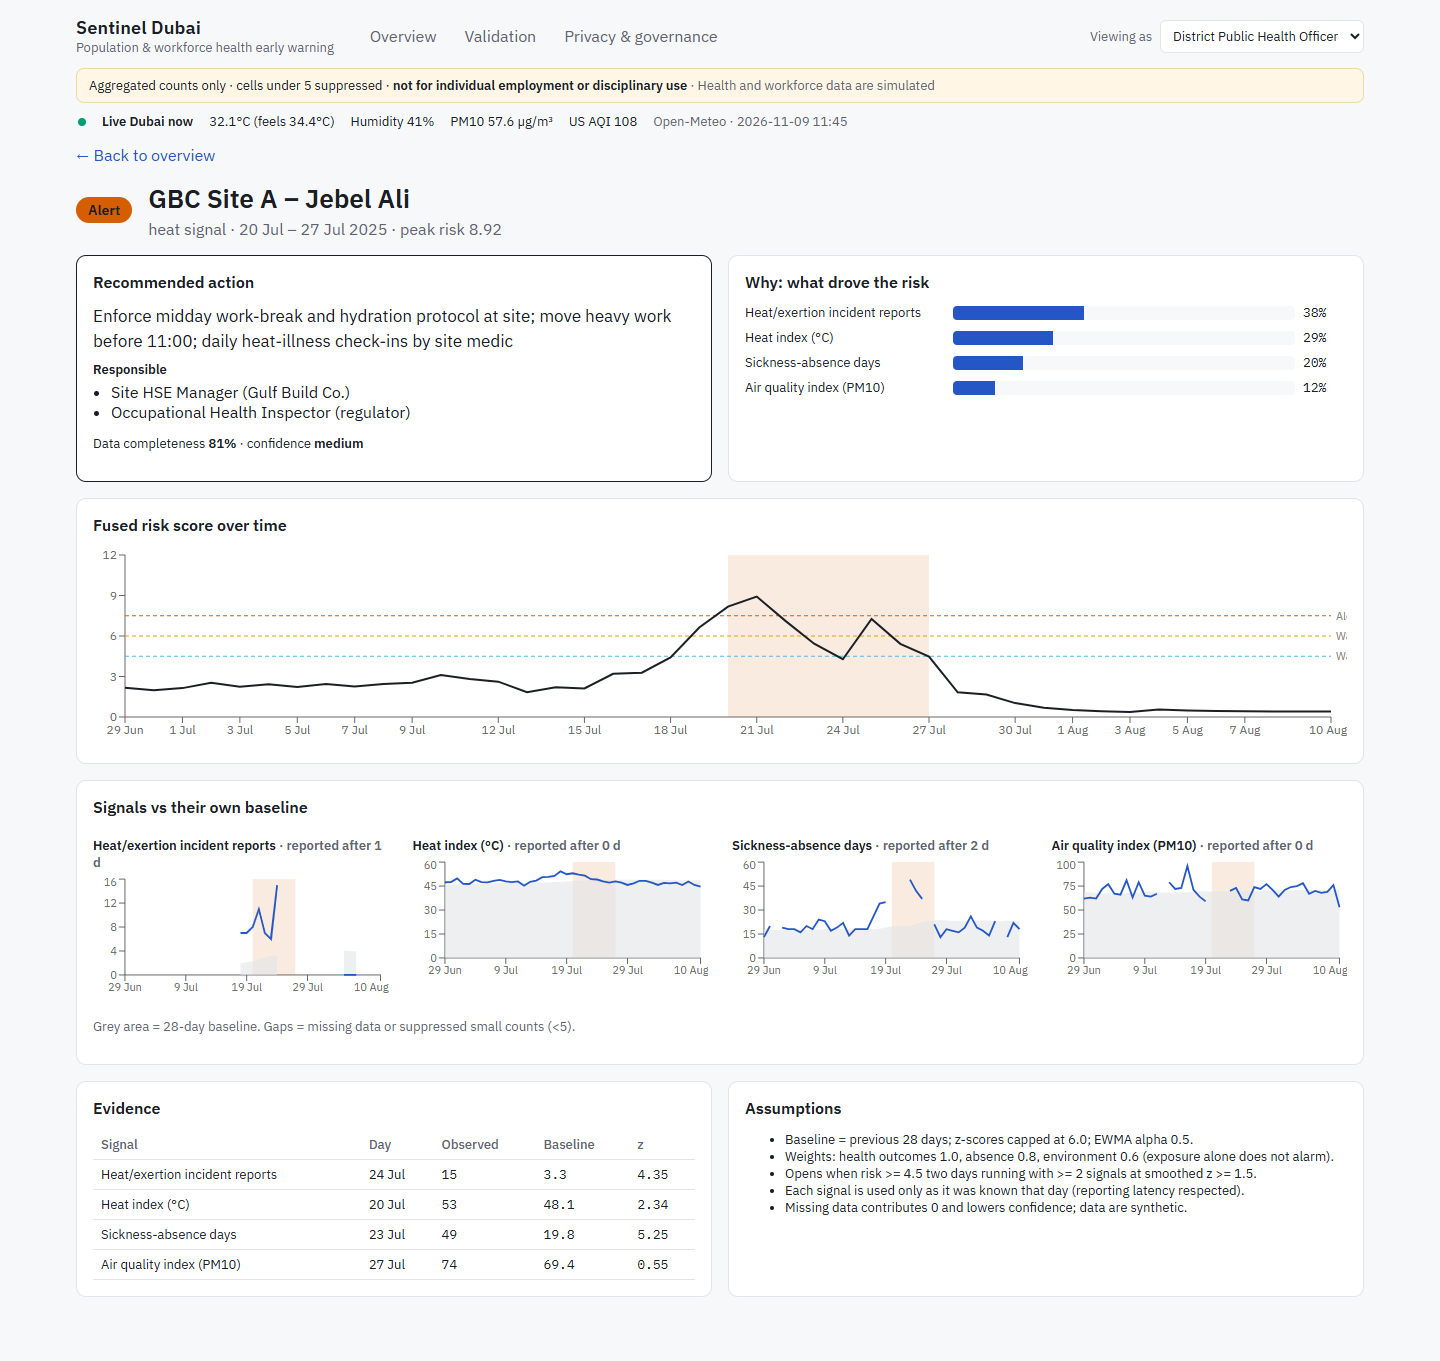
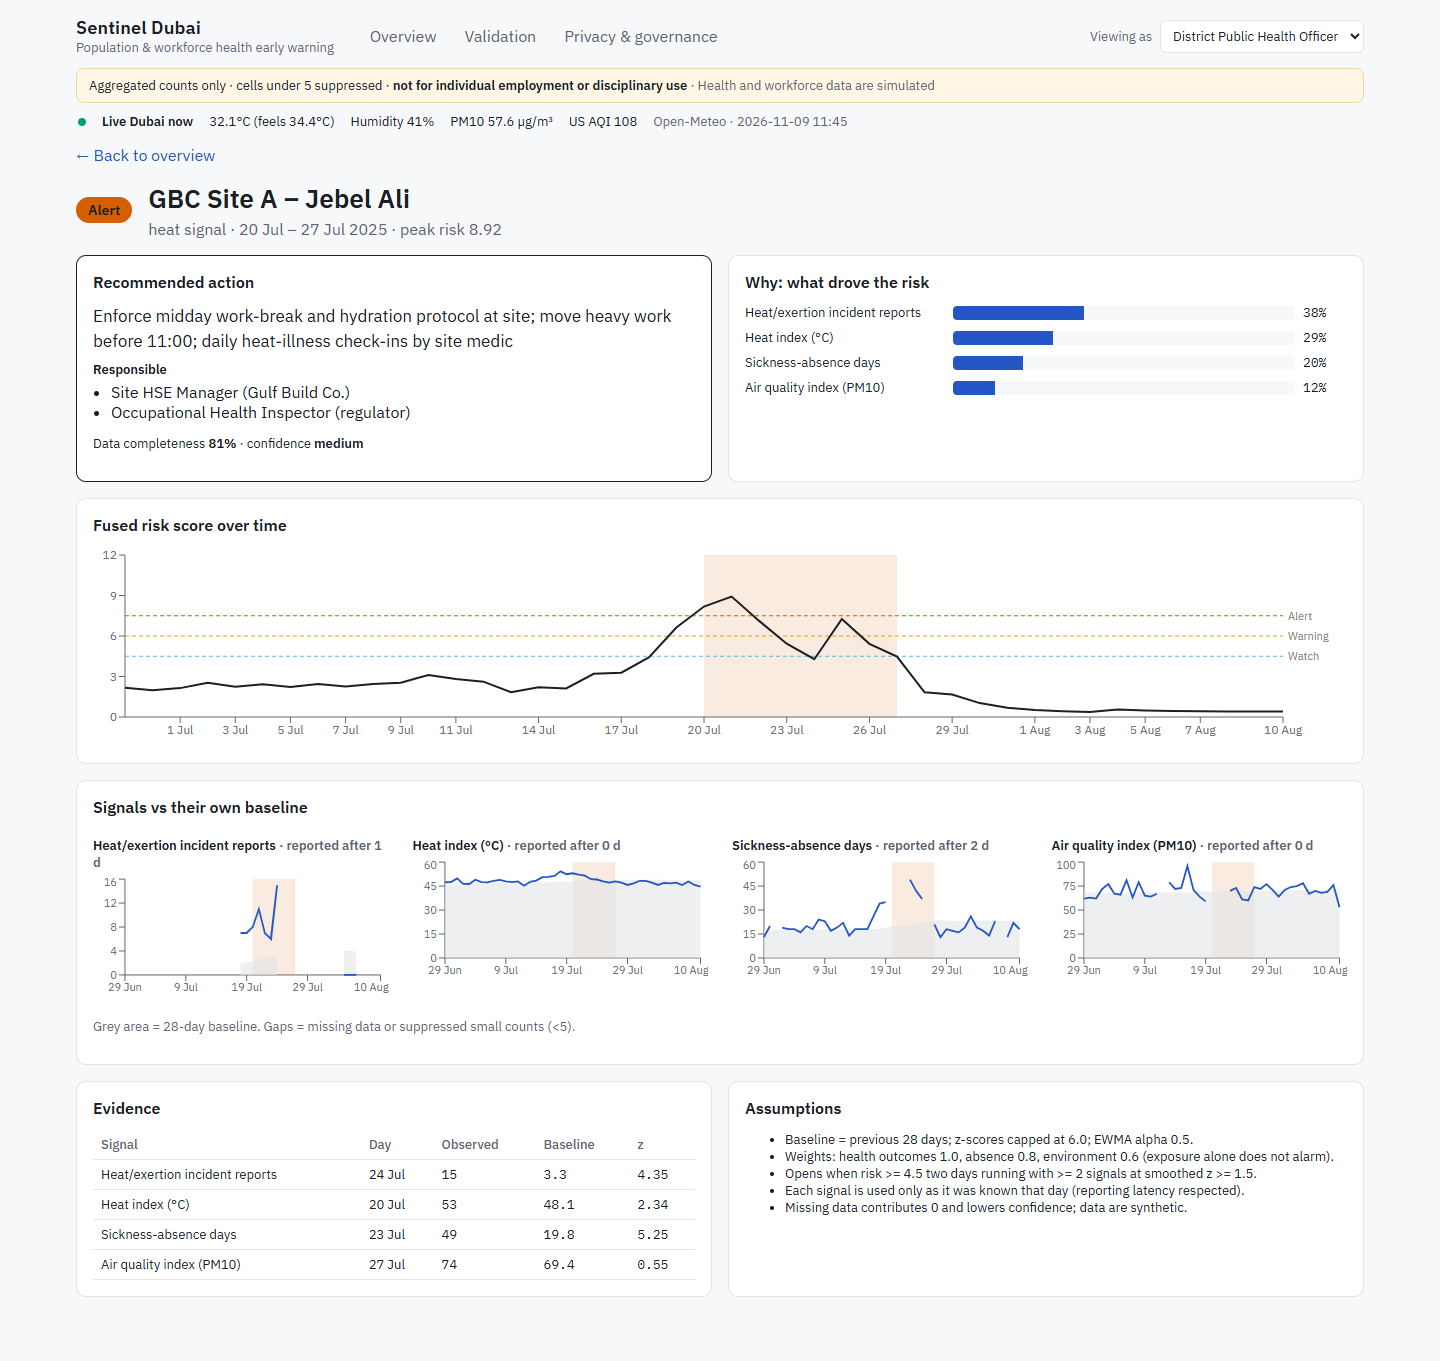
Make room for the threshold labels on the risk chart (#27)
The Alert/Warning/Watch labels sit to the right of the chart but only 16px was reserved,
so they were cut to 'Al' and 'W'. Retake the alert-detail screenshot.

diff --git a/frontend/src/AlertDetail.jsx b/frontend/src/AlertDetail.jsx
@@ -59,7 +59,7 @@ export default function AlertDetail({ role, alert, onBack }) {
         <section className="card">
           <h2>Fused risk score over time</h2>
           <ResponsiveContainer width="100%" height={200}>
-            <ComposedChart data={inView(sig.risk)} margin={{ left: 0, right: 16, top: 8 }}>
+            <ComposedChart data={inView(sig.risk)} margin={{ left: 0, right: 64, top: 8 }}>{/* room for the threshold labels */}
               <XAxis dataKey="date" tickFormatter={fmtDate} fontSize={12} minTickGap={24} />
               <YAxis fontSize={12} width={32} />
               <Tooltip labelFormatter={fmtDate} />
